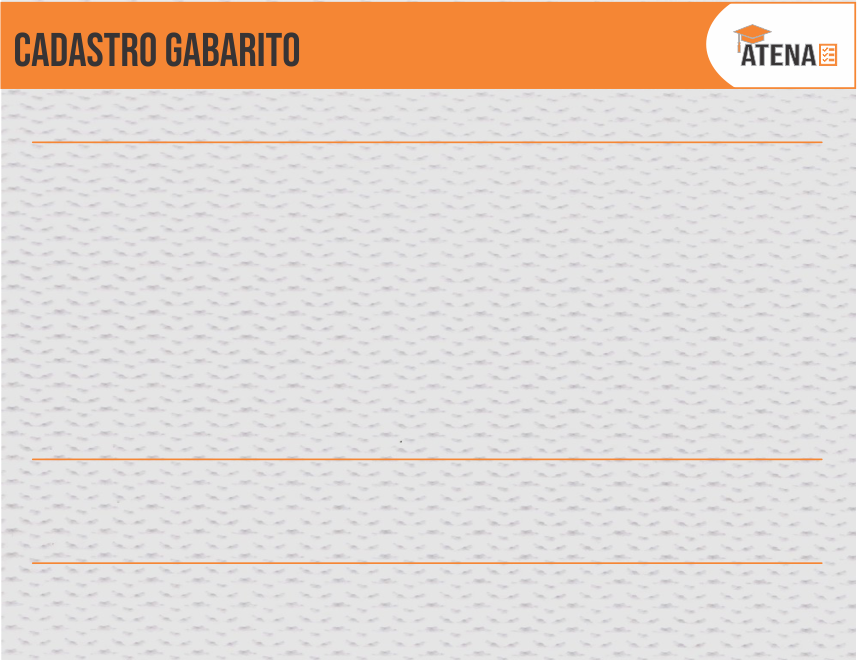
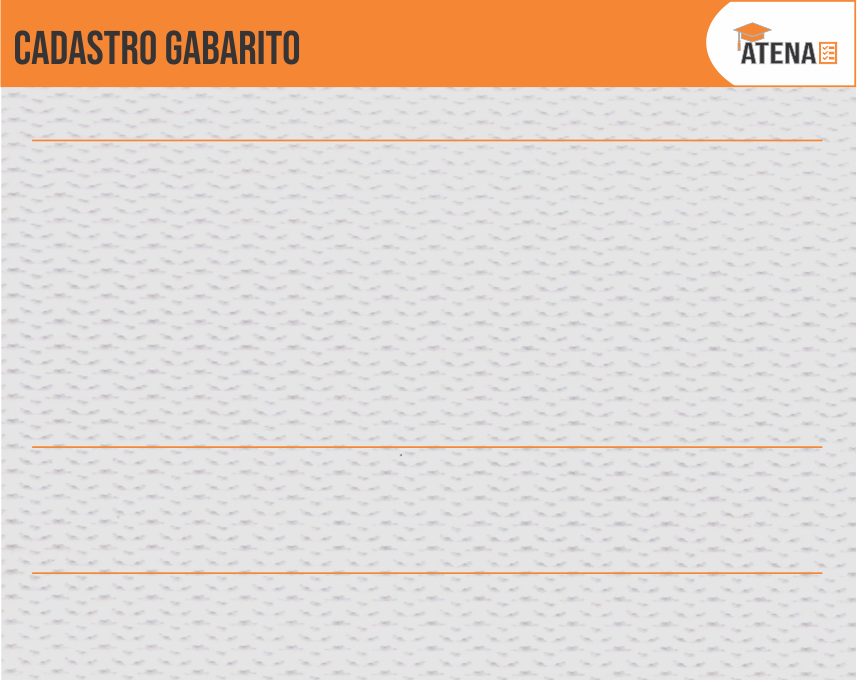
gabarito

diff --git a/Atena/src/atena/telas/CadastroRespostas.java b/Atena/src/atena/telas/CadastroRespostas.java
@@ -1929,15 +1929,18 @@ public class CadastroRespostas extends javax.swing.JDialog {
             }
             if (gabarito.getQuest11().equalsIgnoreCase(quest11.getText())) {
                 pontos = pontos + 4;
-                blocoUm++;
+                blocoDois++;
+                matematica++;
             }
             if (gabarito.getQuest12().equalsIgnoreCase(quest12.getText())) {
                 pontos = pontos + 4;
-                blocoUm++;
+                blocoDois++;
+                matematica++;
             }
             if (gabarito.getQuest13().equalsIgnoreCase(quest13.getText())) {
                 pontos = pontos + 4;
-                blocoUm++;
+                blocoDois++;
+                matematica++;
             }
             if (gabarito.getQuest14().equalsIgnoreCase(quest14.getText())) {
                 pontos = pontos + 4;
@@ -1965,19 +1968,16 @@ public class CadastroRespostas extends javax.swing.JDialog {
                 matematica++;
             }
             if (gabarito.getQuest19().equalsIgnoreCase(quest19.getText())) {
-                pontos = pontos + 4;
-                blocoDois++;
-                matematica++;
+                pontos = pontos + 6;
+                blocoTres++;
             }
             if (gabarito.getQuest20().equalsIgnoreCase(quest20.getText())) {
-                pontos = pontos + 4;
-                blocoDois++;
-                matematica++;
+                pontos = pontos + 6;
+                blocoTres++;
             }
             if (gabarito.getQuest21().equalsIgnoreCase(quest21.getText())) {
-                pontos = pontos + 4;
-                blocoDois++;
-                matematica++;
+                pontos = pontos + 6;
+                blocoTres++;
             }
             if (gabarito.getQuest22().equalsIgnoreCase(quest22.getText())) {
                 pontos = pontos + 6;
@@ -2002,14 +2002,17 @@ public class CadastroRespostas extends javax.swing.JDialog {
             if (gabarito.getQuest27().equalsIgnoreCase(quest27.getText())) {
                 pontos = pontos + 6;
                 blocoTres++;
+                biologia++;
             }
             if (gabarito.getQuest28().equalsIgnoreCase(quest28.getText())) {
                 pontos = pontos + 6;
                 blocoTres++;
+                biologia++;
             }
             if (gabarito.getQuest29().equalsIgnoreCase(quest29.getText())) {
                 pontos = pontos + 6;
                 blocoTres++;
+                biologia++;
             }
             if (gabarito.getQuest30().equalsIgnoreCase(quest30.getText())) {
                 pontos = pontos + 6;
@@ -2037,19 +2040,19 @@ public class CadastroRespostas extends javax.swing.JDialog {
                 biologia++;
             }
             if (gabarito.getQuest35().equalsIgnoreCase(quest35.getText())) {
-                pontos = pontos + 6;
-                blocoTres++;
-                biologia++;
+                pontos = pontos + 4;
+                blocoQuatro++;
+                historia++;
             }
             if (gabarito.getQuest36().equalsIgnoreCase(quest36.getText())) {
-                pontos = pontos + 6;
-                blocoTres++;
-                biologia++;
+                pontos = pontos + 4;
+                blocoQuatro++;
+                historia++;
             }
             if (gabarito.getQuest37().equalsIgnoreCase(quest37.getText())) {
-                pontos = pontos + 6;
-                blocoTres++;
-                biologia++;
+                pontos = pontos + 4;
+                blocoQuatro++;
+                historia++;
             }
             if (gabarito.getQuest38().equalsIgnoreCase(quest38.getText())) {
                 pontos = pontos + 4;
@@ -2059,17 +2062,17 @@ public class CadastroRespostas extends javax.swing.JDialog {
             if (gabarito.getQuest39().equalsIgnoreCase(quest39.getText())) {
                 pontos = pontos + 4;
                 blocoQuatro++;
-                historia++;
+                geografia++;
             }
             if (gabarito.getQuest40().equalsIgnoreCase(quest40.getText())) {
                 pontos = pontos + 4;
                 blocoQuatro++;
-                historia++;
+                geografia++;
             }
             if (gabarito.getQuest41().equalsIgnoreCase(quest41.getText())) {
                 pontos = pontos + 4;
                 blocoQuatro++;
-                historia++;
+                geografia++;
             }
             if (gabarito.getQuest42().equalsIgnoreCase(quest42.getText())) {
                 pontos = pontos + 4;
@@ -2079,17 +2082,14 @@ public class CadastroRespostas extends javax.swing.JDialog {
             if (gabarito.getQuest43().equalsIgnoreCase(quest43.getText())) {
                 pontos = pontos + 4;
                 blocoQuatro++;
-                geografia++;
             }
             if (gabarito.getQuest44().equalsIgnoreCase(quest44.getText())) {
                 pontos = pontos + 4;
                 blocoQuatro++;
-                geografia++;
             }
             if (gabarito.getQuest45().equalsIgnoreCase(quest45.getText())) {
                 pontos = pontos + 4;
                 blocoQuatro++;
-                geografia++;
             }
         } else if (txtCurso.getText().equalsIgnoreCase("Administração") || txtCurso.getText().equalsIgnoreCase("Ciências Contábeis")
                 || txtCurso.getText().equalsIgnoreCase("Análise e Desenvolvimento de Sistemas") || txtCurso.getText().equalsIgnoreCase("Psicologia")
@@ -2145,16 +2145,19 @@ public class CadastroRespostas extends javax.swing.JDialog {
                 portugues++;
             }
             if (gabarito.getQuest11().equalsIgnoreCase(quest11.getText())) {
-                pontos = pontos + 6;
-                blocoUm++;
+                pontos = pontos + 4;
+                blocoDois++;
+                matematica++;
             }
             if (gabarito.getQuest12().equalsIgnoreCase(quest12.getText())) {
-                pontos = pontos + 6;
-                blocoUm++;
+                pontos = pontos + 4;
+                blocoDois++;
+                matematica++;
             }
             if (gabarito.getQuest13().equalsIgnoreCase(quest13.getText())) {
-                pontos = pontos + 6;
-                blocoUm++;
+                pontos = pontos + 4;
+                blocoDois++;
+                matematica++;
             }
             if (gabarito.getQuest14().equalsIgnoreCase(quest14.getText())) {
                 pontos = pontos + 4;
@@ -2182,19 +2185,16 @@ public class CadastroRespostas extends javax.swing.JDialog {
                 matematica++;
             }
             if (gabarito.getQuest19().equalsIgnoreCase(quest19.getText())) {
-                pontos = pontos + 4;
-                blocoDois++;
-                matematica++;
+                pontos = pontos + 2;
+                blocoTres++;
             }
             if (gabarito.getQuest20().equalsIgnoreCase(quest20.getText())) {
-                pontos = pontos + 4;
-                blocoDois++;
-                matematica++;
+                pontos = pontos + 2;
+                blocoTres++;
             }
             if (gabarito.getQuest21().equalsIgnoreCase(quest21.getText())) {
-                pontos = pontos + 4;
-                blocoDois++;
-                matematica++;
+                pontos = pontos + 2;
+                blocoTres++;
             }
             if (gabarito.getQuest22().equalsIgnoreCase(quest22.getText())) {
                 pontos = pontos + 2;
@@ -2219,6 +2219,7 @@ public class CadastroRespostas extends javax.swing.JDialog {
             if (gabarito.getQuest27().equalsIgnoreCase(quest27.getText())) {
                 pontos = pontos + 2;
                 blocoTres++;
+                //aquibiologia++;
             }
             if (gabarito.getQuest28().equalsIgnoreCase(quest28.getText())) {
                 pontos = pontos + 2;

diff --git a/Atena/src/atena/telas/CadastroGabarito.java b/Atena/src/atena/telas/CadastroGabarito.java
@@ -203,13 +203,14 @@ public class CadastroGabarito extends javax.swing.JDialog {
         jLabel3 = new javax.swing.JLabel();
         jLabel4 = new javax.swing.JLabel();
         jLabel5 = new javax.swing.JLabel();
+        jLabel7 = new javax.swing.JLabel();
         jLabel6 = new javax.swing.JLabel();
 
         setDefaultCloseOperation(javax.swing.WindowConstants.DISPOSE_ON_CLOSE);
-        setMaximumSize(new java.awt.Dimension(855, 660));
-        setMinimumSize(new java.awt.Dimension(855, 660));
+        setMaximumSize(new java.awt.Dimension(855, 680));
+        setMinimumSize(new java.awt.Dimension(855, 680));
         setUndecorated(true);
-        setPreferredSize(new java.awt.Dimension(855, 660));
+        setPreferredSize(new java.awt.Dimension(855, 680));
         getContentPane().setLayout(null);
 
         jlNomeUsuario.setFont(new java.awt.Font("Tahoma", 1, 15)); // NOI18N
@@ -247,7 +248,7 @@ public class CadastroGabarito extends javax.swing.JDialog {
             }
         });
         getContentPane().add(btVoltar);
-        btVoltar.setBounds(10, 580, 90, 70);
+        btVoltar.setBounds(10, 600, 90, 70);
 
         btPesquisar.setFont(new java.awt.Font("Tahoma", 1, 14)); // NOI18N
         btPesquisar.setIcon(new javax.swing.ImageIcon(getClass().getResource("/atena/imagens/search.png"))); // NOI18N
@@ -262,7 +263,7 @@ public class CadastroGabarito extends javax.swing.JDialog {
             }
         });
         getContentPane().add(btPesquisar);
-        btPesquisar.setBounds(370, 580, 99, 70);
+        btPesquisar.setBounds(370, 600, 99, 70);
 
         btExcluir.setFont(new java.awt.Font("Tahoma", 1, 14)); // NOI18N
         btExcluir.setIcon(new javax.swing.ImageIcon(getClass().getResource("/atena/imagens/delete.png"))); // NOI18N
@@ -277,7 +278,7 @@ public class CadastroGabarito extends javax.swing.JDialog {
             }
         });
         getContentPane().add(btExcluir);
-        btExcluir.setBounds(530, 580, 80, 70);
+        btExcluir.setBounds(530, 600, 80, 70);
 
         quest19.setFont(new java.awt.Font("Tahoma", 1, 14)); // NOI18N
         quest19.setBorder(new javax.swing.border.LineBorder(new java.awt.Color(204, 102, 0), 1, true));
@@ -376,7 +377,7 @@ public class CadastroGabarito extends javax.swing.JDialog {
             }
         });
         getContentPane().add(btLimpar);
-        btLimpar.setBounds(220, 580, 80, 70);
+        btLimpar.setBounds(220, 600, 80, 70);
 
         jLObrigatorioNome.setFont(new java.awt.Font("Tahoma", 1, 14)); // NOI18N
         jLObrigatorioNome.setForeground(new java.awt.Color(204, 0, 0));
@@ -397,7 +398,7 @@ public class CadastroGabarito extends javax.swing.JDialog {
             }
         });
         getContentPane().add(btSalvar);
-        btSalvar.setBounds(760, 580, 80, 70);
+        btSalvar.setBounds(760, 600, 80, 70);
 
         jlNomeUsuario5.setFont(new java.awt.Font("Tahoma", 1, 15)); // NOI18N
         jlNomeUsuario5.setText("11");
@@ -1579,32 +1580,37 @@ public class CadastroGabarito extends javax.swing.JDialog {
         quest45.setBounds(760, 410, 60, 30);
 
         jLabel1.setFont(new java.awt.Font("Tahoma", 1, 13)); // NOI18N
-        jLabel1.setText("Questões de 14 a 21 - Matemática e suas tecnologias (Matemática) ");
+        jLabel1.setText("Questões de 11 a 18 - Matemática e suas tecnologias (Matemática) ");
         getContentPane().add(jLabel1);
-        jLabel1.setBounds(40, 486, 480, 16);
+        jLabel1.setBounds(40, 475, 480, 16);
 
         jLabel3.setFont(new java.awt.Font("Tahoma", 1, 13)); // NOI18N
-        jLabel3.setText("Questões de 38 a 45 - Ciências Humanas e suas tecnologias (História e Geografia)");
+        jLabel3.setText("Questões de 35 a 42 - Ciências Humanas e suas tecnologias (História e Geografia)");
         getContentPane().add(jLabel3);
-        jLabel3.setBounds(40, 540, 540, 16);
+        jLabel3.setBounds(40, 525, 540, 16);
 
         jLabel4.setFont(new java.awt.Font("Tahoma", 1, 13)); // NOI18N
-        jLabel4.setText("Questões de 01 a 13 - Linguagem e Códigos e suas tecnologias (Língua Portuguesa e Língua Estrangeira)");
+        jLabel4.setText("Questões de 43 a 45 - Linguagem e Códigos e suas tecnologias (Língua Estrangeira)");
         getContentPane().add(jLabel4);
-        jLabel4.setBounds(40, 460, 690, 16);
+        jLabel4.setBounds(40, 550, 590, 16);
 
         jLabel5.setFont(new java.awt.Font("Tahoma", 1, 13)); // NOI18N
-        jLabel5.setText("Questões de 22 a 37 - Ciências da Natureza e suas tecnologias (Física, Química e Biologia)");
+        jLabel5.setText("Questões de 19 a 34 - Ciências da Natureza e suas tecnologias (Física, Química e Biologia)");
         getContentPane().add(jLabel5);
-        jLabel5.setBounds(40, 513, 600, 16);
+        jLabel5.setBounds(40, 500, 600, 16);
+
+        jLabel7.setFont(new java.awt.Font("Tahoma", 1, 13)); // NOI18N
+        jLabel7.setText("Questões de 01 a 10 - Linguagem e Códigos e suas tecnologias (Língua Portuguesa)");
+        getContentPane().add(jLabel7);
+        jLabel7.setBounds(40, 450, 690, 16);
 
         jLabel6.setIcon(new javax.swing.ImageIcon(getClass().getResource("/atena/imagens/cad_gabarito.png"))); // NOI18N
         jLabel6.setBorder(new javax.swing.border.LineBorder(new java.awt.Color(204, 102, 0), 1, true));
-        jLabel6.setMaximumSize(new java.awt.Dimension(855, 659));
-        jLabel6.setMinimumSize(new java.awt.Dimension(855, 659));
-        jLabel6.setPreferredSize(new java.awt.Dimension(855, 659));
+        jLabel6.setMaximumSize(new java.awt.Dimension(855, 680));
+        jLabel6.setMinimumSize(new java.awt.Dimension(855, 680));
+        jLabel6.setPreferredSize(new java.awt.Dimension(855, 680));
         getContentPane().add(jLabel6);
-        jLabel6.setBounds(0, 0, 855, 659);
+        jLabel6.setBounds(0, 0, 855, 680);
 
         pack();
         setLocationRelativeTo(null);
@@ -2283,6 +2289,7 @@ public class CadastroGabarito extends javax.swing.JDialog {
     private javax.swing.JLabel jLabel4;
     private javax.swing.JLabel jLabel5;
     private javax.swing.JLabel jLabel6;
+    private javax.swing.JLabel jLabel7;
     private javax.swing.JLabel jlNomeUsuario;
     private javax.swing.JLabel jlNomeUsuario10;
     private javax.swing.JLabel jlNomeUsuario11;
